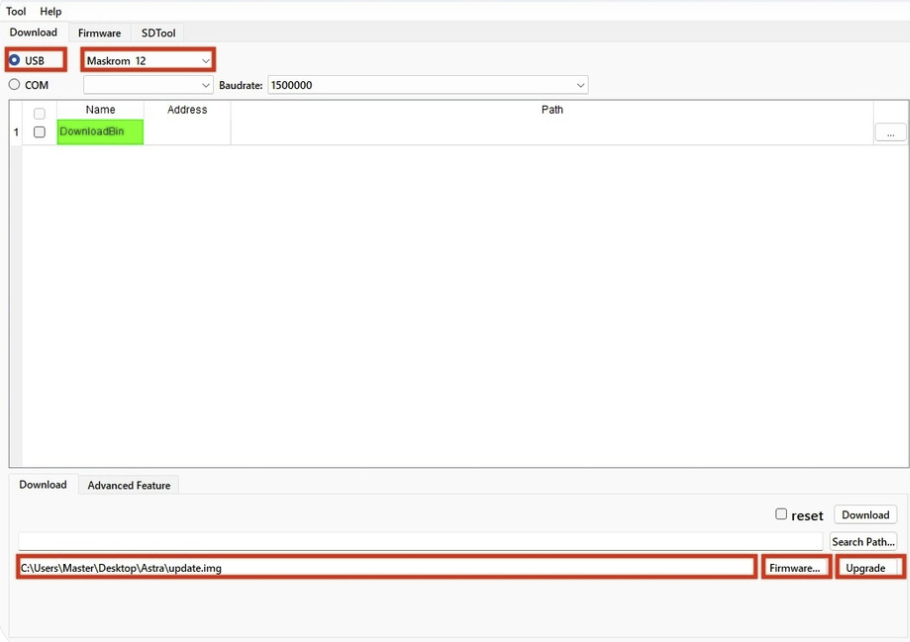
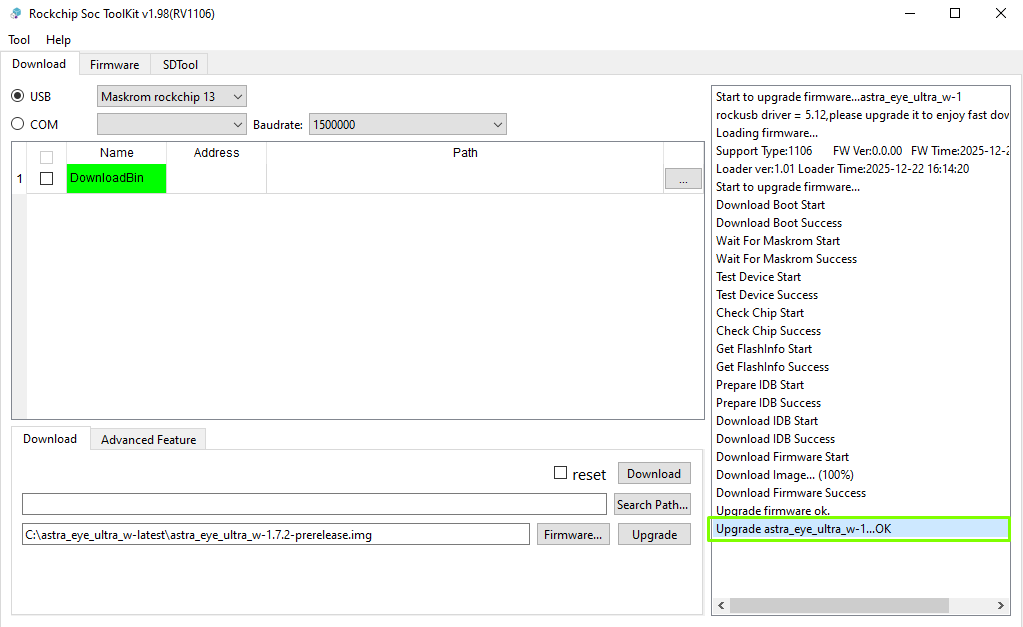
Update 7 files
- astra/proshivka/luckfox-pico-ultra-w/_index.md
   - astra/proshivka/luckfox-pico-ultra-w/luckfox-pico-ultra-w-2.png
   - astra/proshivka/luckfox-pico-ultra-w/luckfox-pico-ultra-w-3.png
   - astra/proshivka/luckfox-pico-ultra-w/luckfox-pico-ultra-w-5.png
   - astra/proshivka/luckfox-pico-ultra-w/luckfox-pico-ultra-w-6.png
 - astra/proshivka/luckfox-pro-max/_index.md
 - astra/proshivka/luckfox-pico-ultra-w/luckfox-pico-ultra-w-4.png

Changed region(s): [[0.0, 0.0, 1.0, 0.9697], [0.6769, 0.9394, 0.9231, 1.0]]

diff --git a/astra/proshivka/luckfox-pico-ultra-w/_index.md b/astra/proshivka/luckfox-pico-ultra-w/_index.md
@@ -3,6 +3,8 @@ order: 1.9
 title: LuckFox Pico Ultra W
 ---
 
+
+
 :::info:true LuckFox Pico Ultra W
 
 ![](./luckfox-pico-ultra-w-2.jpg){width=995px height=654px}
@@ -15,6 +17,8 @@ title: LuckFox Pico Ultra W
 
 -  Скачать [SocToolKit](https://ftp.air-link.space/downloads/astra/SocToolKit_v1.98_20240705_01_win.zip) и установить [драйвер](https://ftp.air-link.space/downloads/astra/DriverAssitant_v5.12.zip) для Windows
 
+[image:./luckfox-pico-ultra-w-5.png::Установка драйвера RK Driver Assitant v5.12:0,0,100,100:56::758px:399px:center]
+
 -  Подключить плату к компьютеру с помощью **USB Type-C кабеля** из комплекта
 
 -  Перевести устройство в режим прошивки: Зажать кнопку **Reset**. Не отпуская Reset, зажать кнопку **Boot**. Отпустить **Reset**, затем отпустить **Boot.**
@@ -23,19 +27,17 @@ title: LuckFox Pico Ultra W
 
 -  В открывшемся окне из выпадающего списка выбрать чип **RV1106**
 
-[image:./luckfox-pico-ultra-w-3.png::Выбор чипа RV1106:0,0,100,100:75::758px:399px:center]
+[image:./luckfox-pico-ultra-w-6.png::Выбор чипа RV1106:0,0,100,100:69::1024px:628px:center]
 
 -  В левом верхнем углу выбрать интерфейс **USB**. В выпадающем списке появится устройство с меткой **"Maskrom..."** -- выберите его
 
 -  Нажать кнопку **Firmware...** и выбрать файл прошивки update.img
 
-[image:./luckfox-pico-ultra-w-2.png::Выбор интерфейса и метки:0,0,100,100:74::910px:642px:center]
-
-
+[image:./luckfox-pico-ultra-w-3.png::Выбор интерфейса и файла прошивки:0,0,100,100:62::1022px:627px:center]
 
 -  Нажать **Upgrade** и дождаться завершения установки
 
-[image:./luckfox-pico-ultra-w-4.png:: Успешное завершение установки:0,0,100,100:74::1185px:587px:center]
+[image:./luckfox-pico-ultra-w-2.png::Успешное завершение установки:0,0,100,100:54::1023px:627px:center]
 
 -  После завершения прошивки **отключить питание по USB**
 

diff --git a/astra/proshivka/luckfox-pro-max/_index.md b/astra/proshivka/luckfox-pro-max/_index.md
@@ -19,6 +19,6 @@ title: LuckFox Pico Pro Max
 
 -  Открыть **Win32 Disk Imager**
 
--  Выбрать прошивку: значок папки в поле Image File-> выбрать прошивку-> дождитесь надписи «Write Successful»
+-  Выбрать прошивку: значок папки в поле Image File-> выбрать прошивку-> дождаться появления надписи «Write Successful»
 
--  После завершения прошивки закрыть программу и извлеките носитель
+-  После завершения прошивки закрыть программу и извлечь носитель
